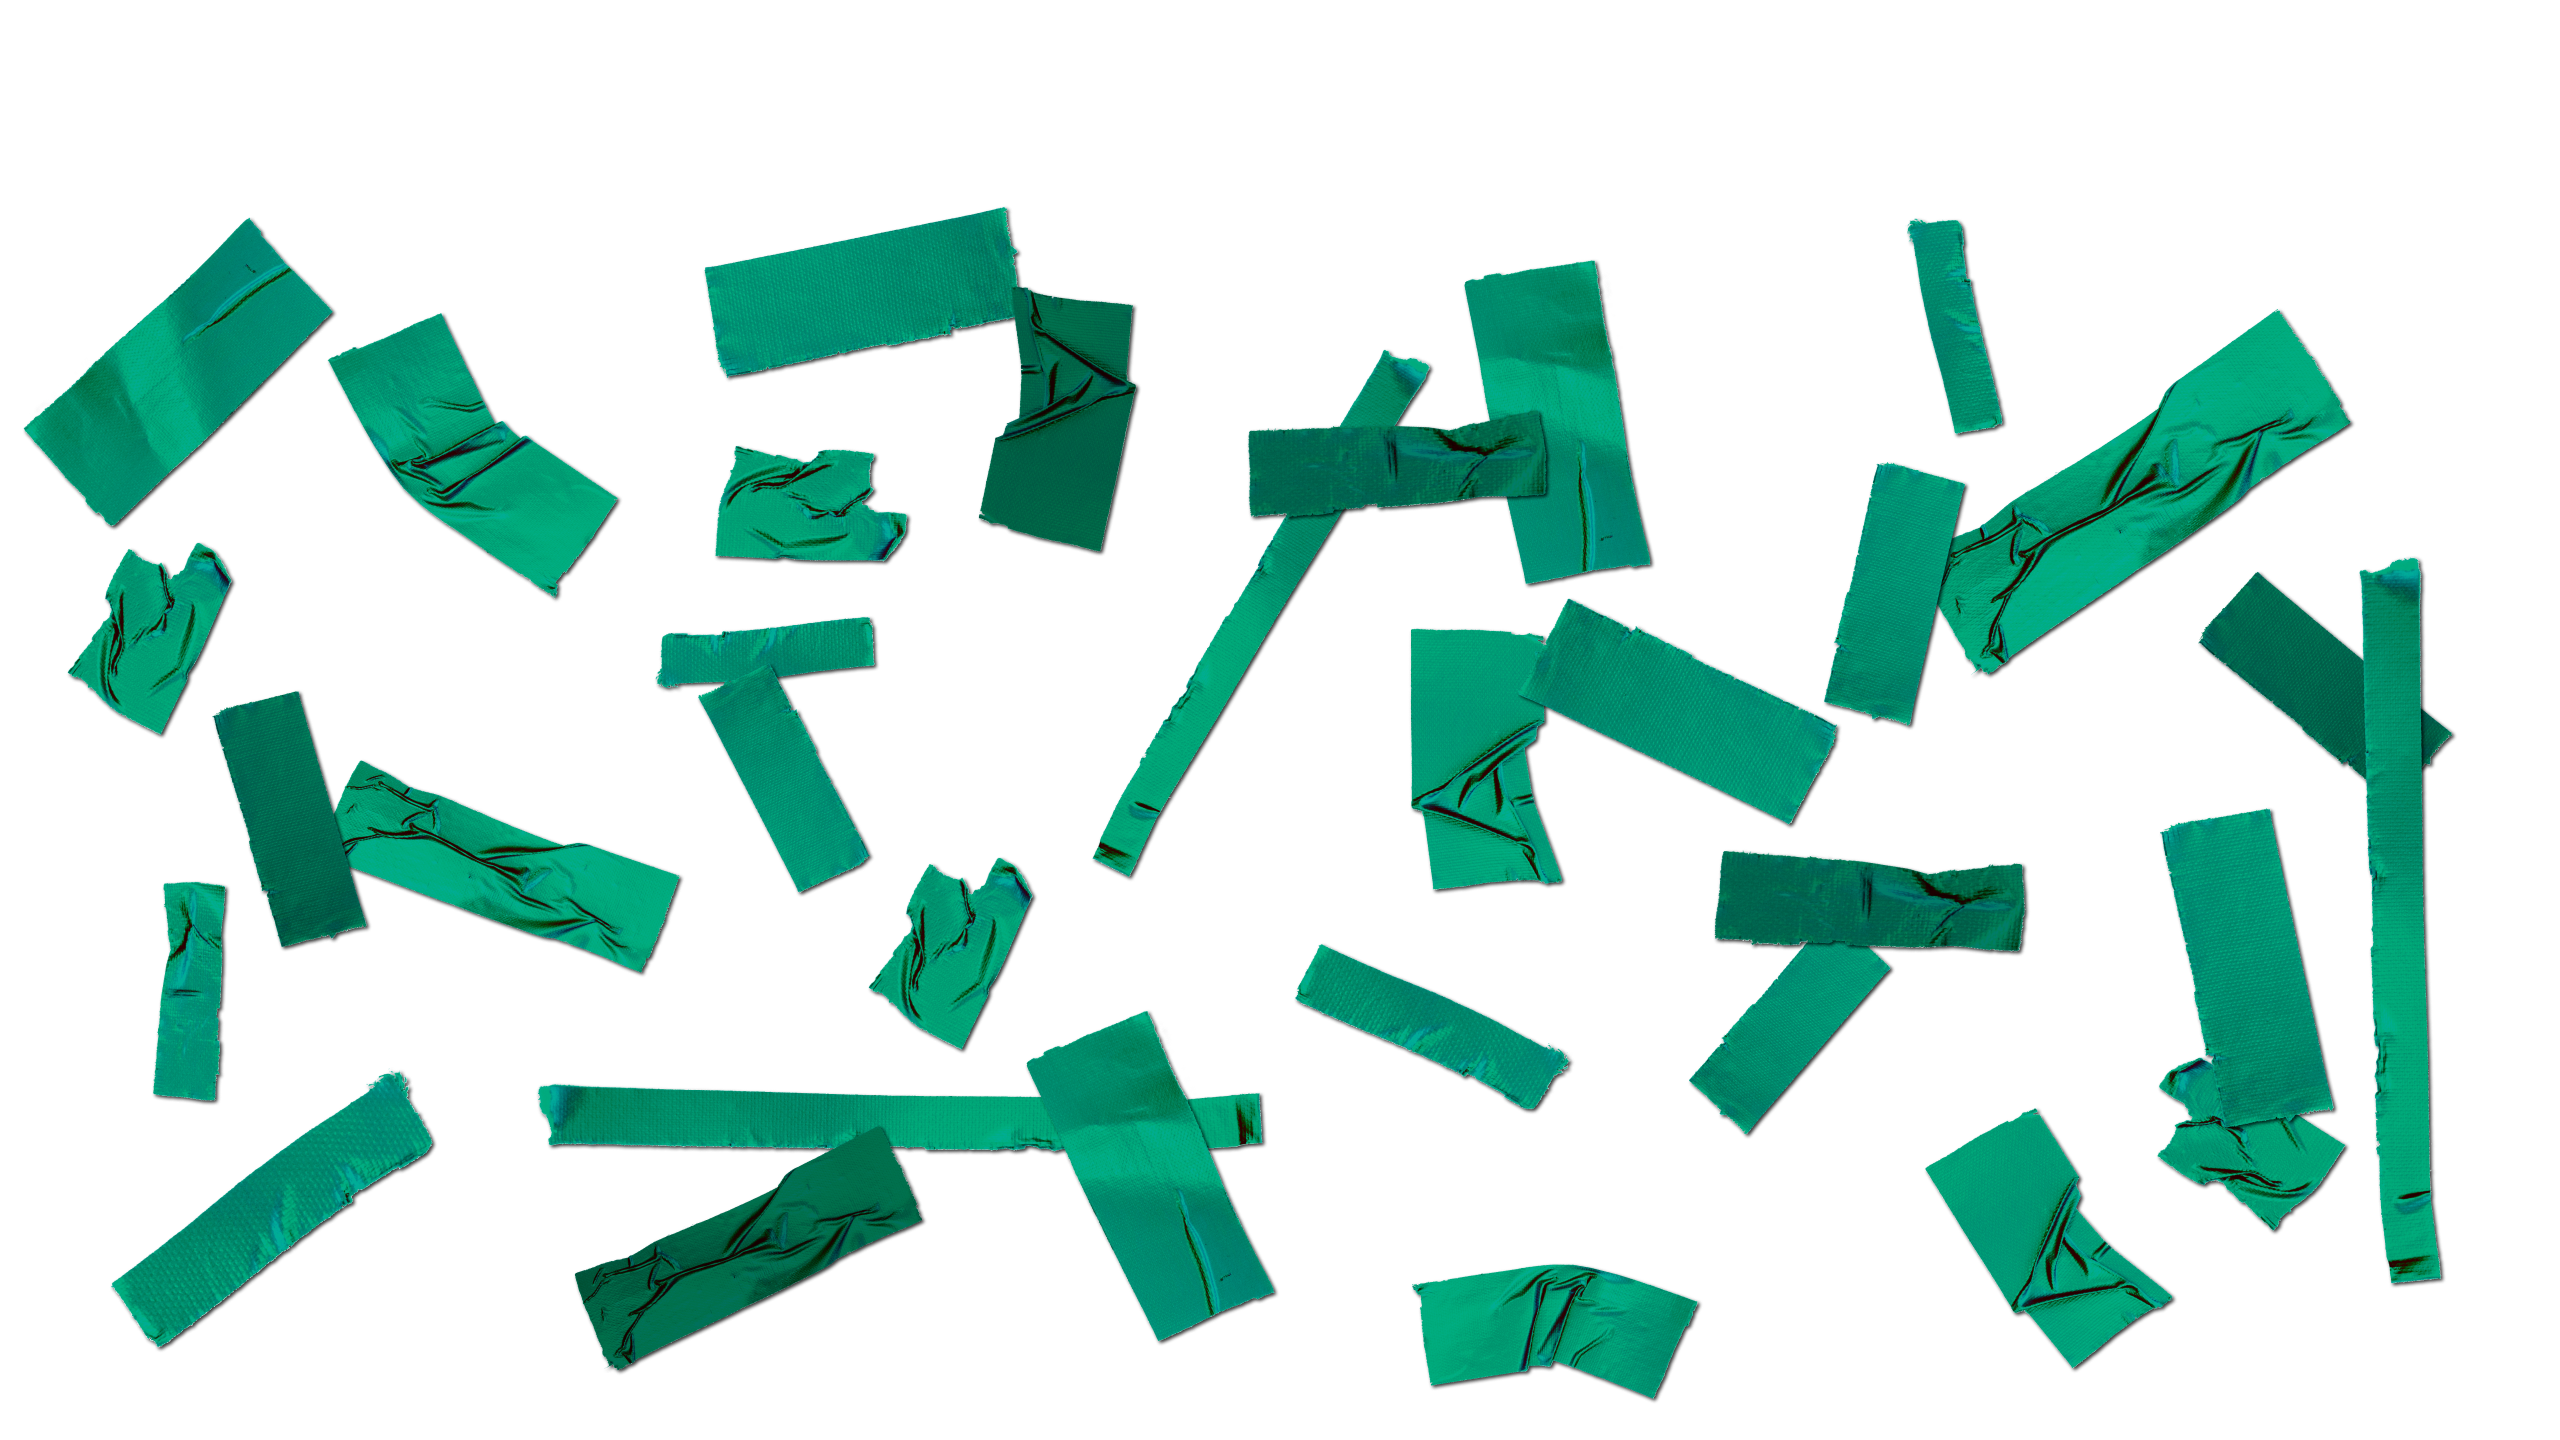
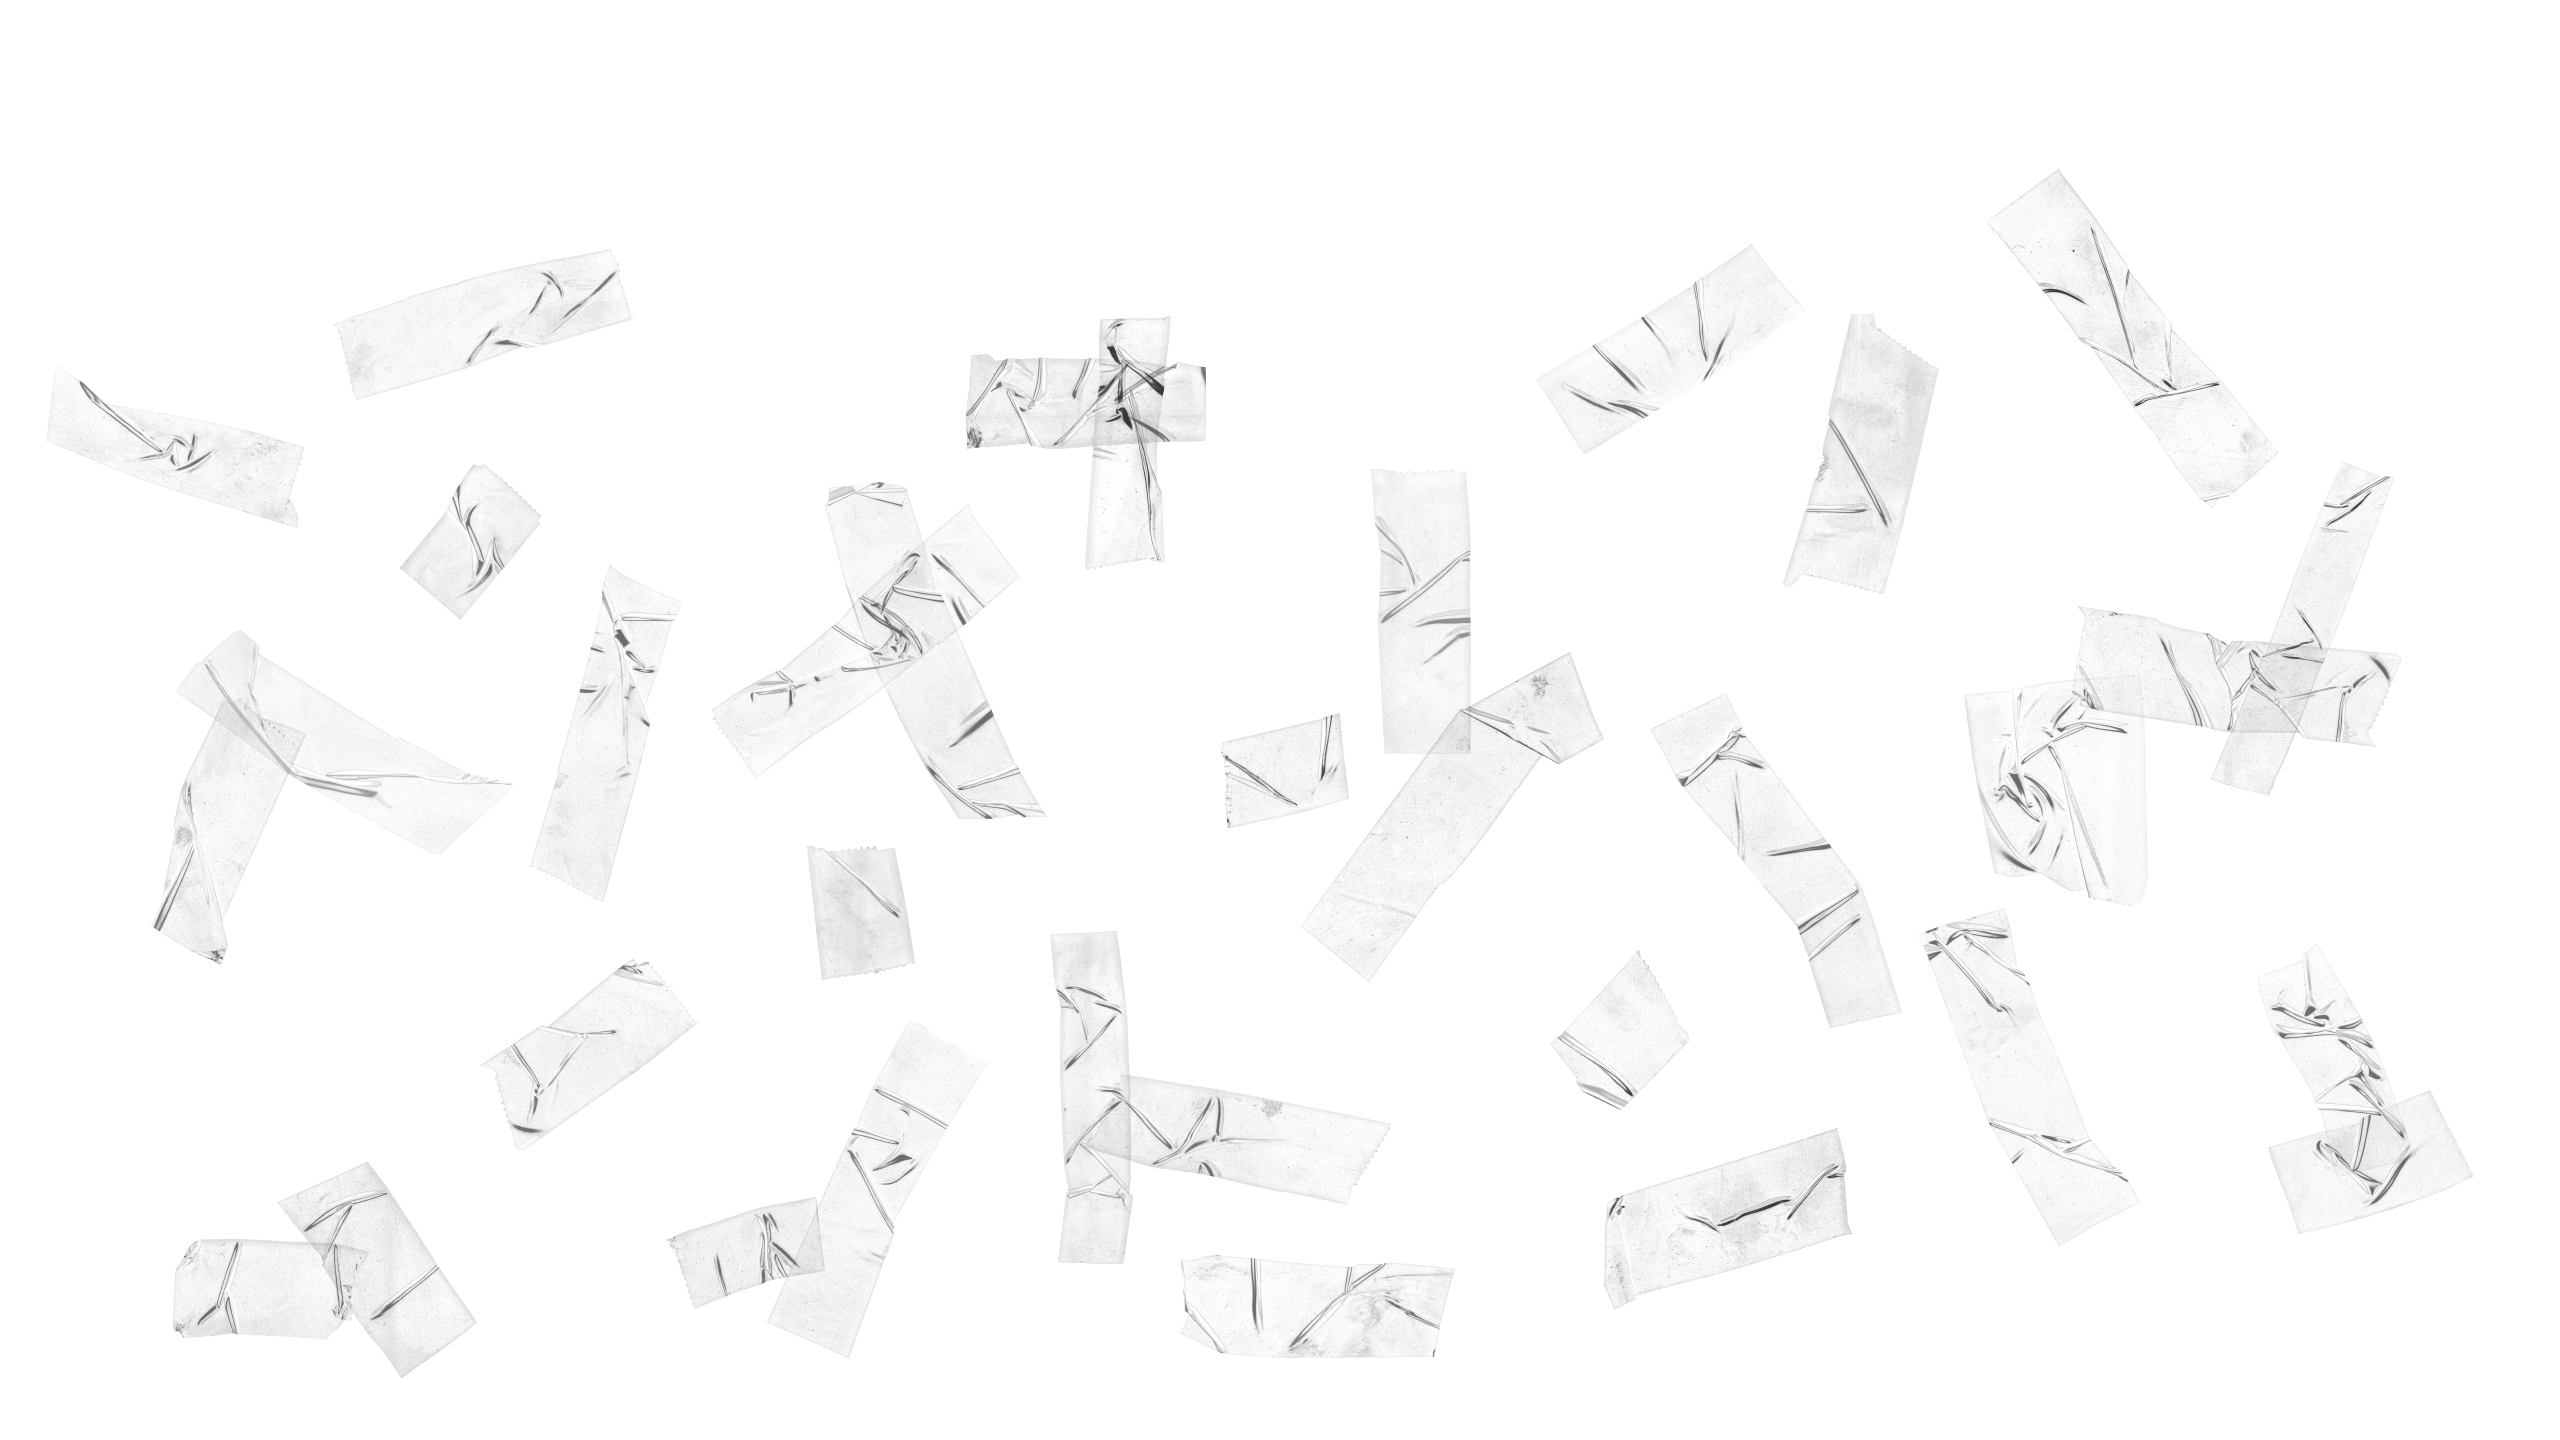
테이프 이미지, 호버 설정

Changed region(s): [[0.0, 0.125, 0.9688, 0.9688], [0.75, 0.75, 0.8438, 0.9375]]

diff --git a/capstone-ej/src/components/ImageContent.jsx b/capstone-ej/src/components/ImageContent.jsx
@@ -1,10 +1,17 @@
 import { useCallback, useMemo, useState, memo } from 'react';
 import { throttle } from 'lodash';
-import ContentBox1 from '../images/EntryImages/ContentBox1.png';
-import ContentBox2 from '../images/EntryImages/ContentBox2.png';
-import ContentBox3 from '../images/EntryImages/ContentBox3.png';
+import ContentBox1 from '../images/EntryImages/ContentBoxs/ContentBox1.png';
+import ContentBox2 from '../images/EntryImages/ContentBoxs/ContentBox2.png';
+import ContentBox3 from '../images/EntryImages/ContentBoxs/ContentBox3.png';
+import ContentBoxHover1 from '../images/EntryImages/ContentBoxs/ContentBoxHover1.png';
+import ContentBoxHover2 from '../images/EntryImages/ContentBoxs/ContentBoxHover2.png';
+import ContentBoxHover3 from '../images/EntryImages/ContentBoxs/ContentBoxHover3.png';
+
+const ContentBox = [ContentBox1, ContentBox2, ContentBox3];
+const ContentBoxHover = [ContentBoxHover1, ContentBoxHover2, ContentBoxHover3];
 
 const ImageContent = memo(({ content, idx, openModal }) => {
+    console.log(`컴포넌트 렌더링`);
     const adjustedIndex = idx % 9;
     const [mousePosition, setMousePosition] = useState({ x: 0, y: 0 });
     const [isMouseOver, setIsMouseOver] = useState(false);
@@ -21,7 +28,6 @@ const ImageContent = memo(({ content, idx, openModal }) => {
             });
         }, 5), []);
 
-    console.log(`컴포넌트 렌더링`);
     const MouseEnter = () => {
         setIsMouseOver(true);
     };
@@ -34,33 +40,14 @@ const ImageContent = memo(({ content, idx, openModal }) => {
         openModal(`https://bucket-geeks.s3.ap-northeast-2.amazonaws.com/original/${content.category}/${content.id}.png`);
     };
 
-    const backgroundStyle = useMemo(() => {
-        const random = Math.random();
-        if (random < 0.2) {
-            return {
-                backgroundImage: `url(${ContentBox1})`,
-                backgroundSize: '100% 100%',
-                backgroundRepeat: 'no-repeat',
-                backgroundPosition: 'center',
-            };
-        } else if (random < 0.4) {
-            return {
-                backgroundImage: `url(${ContentBox2})`,
-                backgroundSize: '100% 100%',
-                backgroundRepeat: 'no-repeat',
-                backgroundPosition: 'center',
-            };
-        } else if (random < 0.6) {
-            return {
-                backgroundImage: `url(${ContentBox3})`,
-                backgroundSize: '100% 100%',
-                backgroundRepeat: 'no-repeat',
-                backgroundPosition: 'center',
 
-            };
-        }
-        return { border: '1.5px solid #0800EE' ,backgroundColor:'white'};
-    }, [idx]);
+    const randomImg = useMemo(() => {
+        const randomValue = Math.random();
+        if (randomValue < 0.2) return 1;
+        else if (randomValue < 0.4) return 2;
+        else if (randomValue < 0.6) return 3;
+        return 4; // 기본값 설정
+    }, []);
 
     // 좀 더 알아보고 지우기
     const moveImage = useMemo(() => {
@@ -71,13 +58,21 @@ const ImageContent = memo(({ content, idx, openModal }) => {
         <>
             <div
                 className="image-content flex justify-center items-center relative"
-                style={backgroundStyle}
+                style={{
+                    backgroundImage: isMouseOver ? `url(${ContentBoxHover[randomImg - 1]})` : `url(${ContentBox[randomImg - 1]})`,
+                    border: randomImg === 4 ? '1.5px solid #0800EE' : 'none',
+                    backgroundColor: randomImg === 4 ? isMouseOver ? '#0800EE' : 'white' : 'none',
+                    backgroundSize: '100% 100%',
+                    backgroundRepeat: 'no-repeat',
+                    backgroundPosition: 'center',
+                }}
                 onClick={handleClick}
                 onMouseMove={MouseMove}
                 onMouseEnter={MouseEnter}
                 onMouseLeave={MouseLeave}
             >
-                <img src={`https://bucket-geeks.s3.ap-northeast-2.amazonaws.com/symbol/deactive/${content.category}/${content.id}.svg`} alt="" />
+                {!isMouseOver ? <img src={`https://bucket-geeks.s3.ap-northeast-2.amazonaws.com/symbol/deactive/${content.category}/${content.id}.svg`} alt="" /> :
+                    <img src={`https://bucket-geeks.s3.ap-northeast-2.amazonaws.com/symbol/active/${content.category}/${content.id}.svg`} alt="" />}
                 {isMouseOver && (
                     <img
                         src={moveImage}
